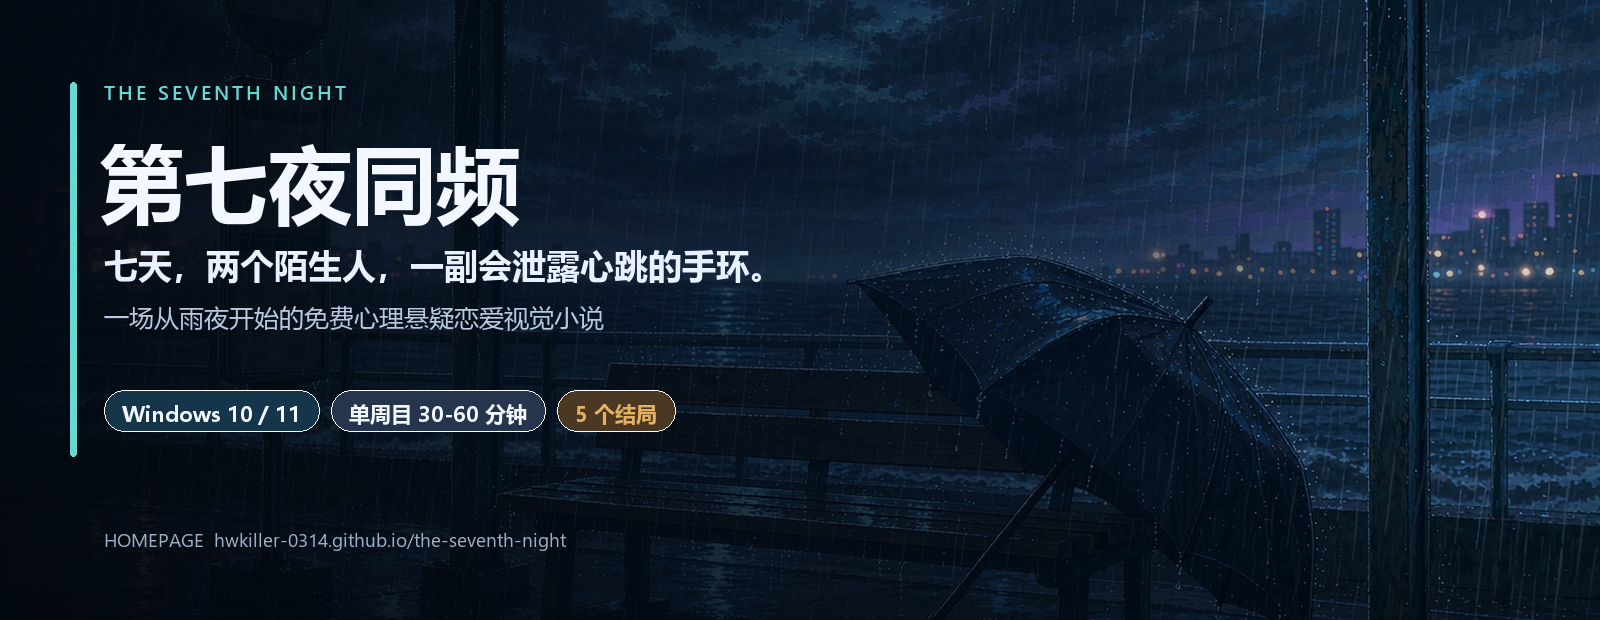
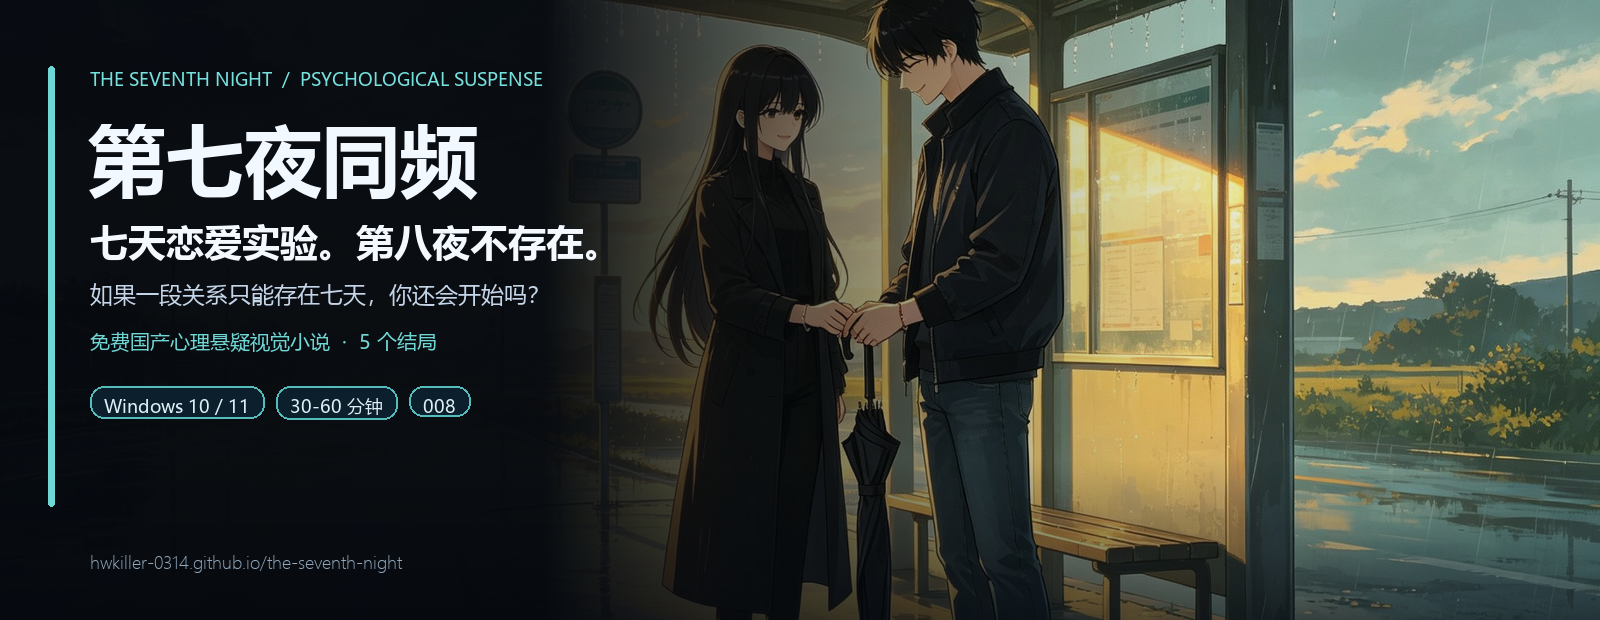
docs: sharpen player-facing hook and visuals

diff --git a/docs/index.html b/docs/index.html
@@ -3,15 +3,17 @@
 <head>
 <meta charset="utf-8">
 <meta name="viewport" content="width=device-width, initial-scale=1">
-<title>第七夜同频 | 七天亲密关系实验，一场从雨夜开始的悬疑恋爱</title>
-<meta name="description" content="《第七夜同频》是一款免费国产心理悬疑恋爱视觉小说。Windows 10 / 11，单周目约 30 至 60 分钟，五个可达结局。">
+<title>第七夜同频 | 七天恋爱实验，第八夜不存在</title>
+<meta name="description" content="她参加了一场七天的恋爱实验。规则说第八夜不存在。第七夜，同频灯亮了，被封死的 008 房间也重新出现。免费国产心理悬疑视觉小说，五个可达结局。">
 <link rel="canonical" href="https://hwkiller-0314.github.io/the-seventh-night/">
 <meta name="theme-color" content="#070b12">
 <link rel="icon" type="image/png" href="images/favicon.png">
 <meta property="og:type" content="website">
-<meta property="og:title" content="第七夜同频 | 七天亲密关系实验">
-<meta property="og:description" content="一场从雨夜开始的免费心理悬疑恋爱视觉小说。">
+<meta property="og:title" content="第七夜同频 | 七天恋爱实验，第八夜不存在">
+<meta property="og:description" content="一场从雨夜开始的免费心理悬疑恋爱视觉小说。五个结局，单周目约 30 至 60 分钟。">
 <meta property="og:image" content="https://hwkiller-0314.github.io/the-seventh-night/images/social-preview.png">
+<meta property="og:image:width" content="1280">
+<meta property="og:image:height" content="640">
 <meta property="og:url" content="https://hwkiller-0314.github.io/the-seventh-night/">
 <meta name="twitter:card" content="summary_large_image">
 <style>
@@ -21,12 +23,14 @@ html{scroll-behavior:smooth}
 body{margin:0;background:var(--bg);color:var(--text);font-family:"Microsoft YaHei","PingFang SC",sans-serif;line-height:1.7}
 a{color:inherit;text-decoration:none}
 a:focus-visible,.btn:focus-visible{outline:2px solid var(--teal);outline-offset:3px}
+img{display:block;max-width:100%}
 .wrap{width:min(1120px,calc(100% - 40px));margin:0 auto}
-.hero{min-height:78vh;display:flex;align-items:flex-end;background:linear-gradient(180deg,rgba(7,11,18,.12),rgba(7,11,18,.96) 90%),url("images/hero.jpg") center/cover no-repeat;border-bottom:1px solid var(--line)}
-.hero-inner{padding:90px 0 62px;max-width:800px}
-.eyebrow{color:var(--teal);font-size:13px;font-weight:800;letter-spacing:0;margin-bottom:14px}
+.hero{min-height:720px;display:flex;align-items:flex-end;background:linear-gradient(90deg,rgba(7,11,18,.98) 0%,rgba(7,11,18,.88) 35%,rgba(7,11,18,.28) 68%,rgba(7,11,18,.08) 100%),linear-gradient(180deg,rgba(7,11,18,.1),rgba(7,11,18,.96) 94%),url("images/hero.jpg") 58% center/cover no-repeat;border-bottom:1px solid var(--line)}
+.hero-inner{padding:96px 0 70px;max-width:790px}
+.eyebrow{color:var(--teal);font-size:13px;font-weight:800;margin-bottom:14px}
 .hero h1{font-size:76px;line-height:1.08;margin:0 0 18px;letter-spacing:0}
-.hero p{font-size:18px;color:#d3deee;max-width:680px;margin:0 0 28px}
+.hero .hook{font-size:30px;font-weight:800;color:#f3f8ff;margin:0 0 12px;line-height:1.35}
+.hero p{font-size:18px;color:#d3deee;max-width:700px;margin:0 0 28px;overflow-wrap:anywhere}
 .actions{display:flex;flex-wrap:wrap;gap:12px}
 .btn{display:inline-flex;align-items:center;justify-content:center;padding:12px 20px;border:1px solid var(--line);border-radius:6px;background:rgba(10,17,28,.82);font-weight:800;letter-spacing:0}
 .btn.primary{background:#2b736f;border-color:#4ea9a3}
@@ -34,14 +38,22 @@ a:focus-visible,.btn:focus-visible{outline:2px solid var(--teal);outline-offset:
 .btn:hover{border-color:var(--teal);color:#fff;transform:translateY(-1px)}
 section{padding:76px 0;border-bottom:1px solid var(--line)}
 h2{font-size:30px;letter-spacing:0;margin:0 0 22px}
+h3{letter-spacing:0}
 .lead{color:var(--muted);max-width:820px}
+.rules{padding:0;background:#0b121d}
+.rule-grid{display:grid;grid-template-columns:repeat(4,1fr);border-left:1px solid var(--line);border-right:1px solid var(--line)}
+.rule{padding:28px 26px;border-right:1px solid var(--line);position:relative;background:rgba(16,26,40,.55)}
+.rule:last-child{border-right:0;background:rgba(74,48,30,.5)}
+.rule b{display:block;color:var(--teal);font-size:12px;margin-bottom:8px}
+.rule span{display:block;font-size:18px;font-weight:800;line-height:1.5}
+.rule:last-child span{color:#f0c785}
 .features{display:grid;grid-template-columns:repeat(3,1fr);gap:16px;margin-top:28px}
 .feature{border-top:2px solid var(--teal);padding:18px 0 8px}
 .feature h3{margin:0 0 8px;font-size:17px}
 .feature p{margin:0;color:var(--muted);font-size:14px}
 .gallery{display:grid;grid-template-columns:repeat(2,1fr);gap:16px;margin-top:28px}
-.shot{position:relative;overflow:hidden;border:1px solid var(--line);border-radius:8px;background:#0b121d}
-.shot img{display:block;width:100%;height:100%;object-fit:cover;transition:transform .4s ease}
+.shot{position:relative;overflow:hidden;border:1px solid var(--line);border-radius:8px;background:#0b121d;margin:0}
+.shot img{width:100%;height:100%;object-fit:cover;transition:transform .4s ease}
 .shot:hover img{transform:scale(1.025)}
 .shot span{position:absolute;left:14px;bottom:12px;background:rgba(5,9,15,.82);padding:6px 10px;border-radius:4px;font-size:12px;color:#dce7f4}
 .story{background:#0b121d}
@@ -58,13 +70,19 @@ h2{font-size:30px;letter-spacing:0;margin:0 0 22px}
 .support{margin-top:30px;padding:24px;border:1px solid var(--line);border-radius:8px;background:var(--panel)}
 .support h3{margin:0 0 8px;font-size:20px}
 .support p{color:var(--muted);margin:0 0 18px}
+.notice{margin-top:18px;padding:14px 16px;border-left:2px solid var(--amber);background:rgba(228,179,99,.08);color:#c8d4e5;font-size:13px}
 footer{padding:42px 0 60px;color:var(--muted);font-size:13px}
 @media(max-width:820px){
-  .hero{min-height:680px;background-position:56% center}
+  .hero{min-height:690px;background:linear-gradient(180deg,rgba(7,11,18,.2),rgba(7,11,18,.97) 72%),url("images/hero.jpg") 64% center/cover no-repeat}
+  .hero-inner{padding:300px 0 54px}
   .hero h1{font-size:52px}
+  .hero .hook{font-size:23px}
   .quote{font-size:28px}
   .features,.gallery,.download{grid-template-columns:1fr}
-  .wrap{width:min(100% - 28px,1120px)}
+  .rule-grid{grid-template-columns:repeat(2,1fr);border-left:0;border-right:0}
+  .rule:nth-child(2){border-right:0}
+  .rule{border-bottom:1px solid var(--line)}
+  .wrap{width:calc(100% - 28px)}
   section{padding:58px 0}
   .actions{display:grid}
   .btn{width:100%}
@@ -82,7 +100,8 @@ footer{padding:42px 0 60px;color:var(--muted);font-size:13px}
   "gamePlatform": "Microsoft Windows",
   "author": {"@type": "Person", "name": "hwkiller-0314"},
   "url": "https://hwkiller-0314.github.io/the-seventh-night/",
-  "downloadUrl": "https://github.com/hwkiller-0314/the-seventh-night/releases/latest"
+  "downloadUrl": "https://github.com/hwkiller-0314/the-seventh-night/releases/latest",
+  "description": "七天恋爱实验，第八夜不存在。免费国产心理悬疑视觉小说，五个可达结局。"
 }
 </script>
 </head>
@@ -90,60 +109,74 @@ footer{padding:42px 0 60px;color:var(--muted);font-size:13px}
 <main>
   <section class="hero">
     <div class="wrap hero-inner">
-      <div class="eyebrow">FREE WINDOWS VISUAL NOVEL · 5 ENDINGS</div>
+      <div class="eyebrow">免费国产心理悬疑视觉小说 · 5 个结局</div>
       <h1>第七夜同频</h1>
-      <p>一场只有七天的亲密关系实验，一段从雨夜开始的悬疑恋爱。你能在第七夜之前，真正听懂另一个人的心跳吗？</p>
+      <p class="hook">七天恋爱实验。第八夜不存在。</p>
+      <p>如果一段关系只能存在七天，你还会开始吗？你和陌生人 S-07 共同生活七天，完成关于信任、边界和心跳同步的任务。第七夜，同频灯亮了；也是那一夜，她姐姐失踪的 008 房间重新出现。</p>
       <div class="actions">
         <a class="btn primary" href="https://github.com/hwkiller-0314/the-seventh-night/releases/download/v1.3.0/The-Seventh-Night-v1.3.0-Windows-Setup.exe">下载 Windows 版</a>
+        <a class="btn" href="#shots">先看游戏画面</a>
         <a class="btn" href="https://github.com/hwkiller-0314/the-seventh-night">查看 GitHub</a>
-        <a class="btn star" href="https://github.com/hwkiller-0314/the-seventh-night/stargazers">点个 Star</a>
+      </div>
+    </div>
+  </section>
+
+  <section class="rules" aria-label="实验规则">
+    <div class="wrap">
+      <div class="rule-grid">
+        <div class="rule"><b>规则 01</b><span>不交换真名</span></div>
+        <div class="rule"><b>规则 02</b><span>不拍照</span></div>
+        <div class="rule"><b>规则 03</b><span>每晚完成一个指定任务</span></div>
+        <div class="rule"><b>规则 04</b><span>第八夜不存在</span></div>
       </div>
     </div>
   </section>
 
   <section>
     <div class="wrap">
-      <h2>故事</h2>
-      <p class="lead">你在一场“亲密关系重建计划”中，与陌生人 S-07 共同生活七天。你们戴着记录心跳的手环，完成关于距离、信任和边界的任务。随着心率曲线逐渐靠近，你发现她进入实验的目的并不简单。</p>
+      <h2>这不是一场普通恋爱</h2>
+      <p class="lead">她本来应该是主试，却成了你的同居对象。你们越靠近，心率曲线越同步；她越靠近真相，那个被封死的房间就越无法被忽视。每一次“要不要再近一点”，都同时关于亲密、欺骗和边界。</p>
       <div class="features">
         <div class="feature"><h3>选择真的会改变关系</h3><p>信任、同频、真相、清醒四个隐藏数值共同影响结局。</p></div>
-        <div class="feature"><h3>同频灯与心率</h3><p>两个人的心跳越接近，蓝色灯越亮。</p></div>
-        <div class="feature"><h3>五个可达结局</h3><p>同频、雨停、各自成长、失温、008。</p></div>
-        <div class="feature"><h3>边界与同意</h3><p>亲密不是奖励，而是被认真确认的选择。</p></div>
-        <div class="feature"><h3>心理悬疑</h3><p>三年前那把黑伞，把你们引向同一个雨夜。</p></div>
+        <div class="feature"><h3>边界不是装饰</h3><p>能不能牵手、能不能靠近、要不要先问，都是必须认真回答的选项。</p></div>
+        <div class="feature"><h3>从第一夜开始埋线</h3><p>黑伞、旧手环、末班车和 008 房间，把一段关系引向同一个雨夜。</p></div>
+        <div class="feature"><h3>五个可达结局</h3><p>最坏的结果不是分手，而是你们都没有真正听懂对方。</p></div>
+        <div class="feature"><h3>短篇完整故事</h3><p>单周目约 30 至 60 分钟，一周目可以完整通关。</p></div>
         <div class="feature"><h3>完整视听演出</h3><p>立绘差分、剧情 CG、雨夜视频、BGM 与音效。</p></div>
       </div>
     </div>
   </section>
 
-  <section>
+  <section id="shots">
     <div class="wrap">
-      <h2>截图</h2>
+      <h2>游戏画面</h2>
+      <figure class="shot"><img src="images/game-preview.png" alt="游戏关系选择、剧情 CG 与结局画面"><span>实际游戏画面</span></figure>
       <div class="gallery">
-        <figure class="shot"><img src="images/game-choice.jpg" alt="游戏选择界面"><span>关系选择</span></figure>
         <figure class="shot"><img src="images/cg-first-kiss.jpg" alt="雨窗将吻"><span>雨窗将吻</span></figure>
-        <figure class="shot"><img src="images/cg-door-cry.jpg" alt="答案之后"><span>答案之后</span></figure>
+        <figure class="shot"><img src="images/cg-door-cry.jpg" alt="008 房间与答案之后"><span>答案之后</span></figure>
         <figure class="shot"><img src="images/cg-umbrella-return.jpg" alt="雨停了就回家"><span>雨停了就回家</span></figure>
+        <figure class="shot"><img src="images/game-choice.jpg" alt="关系选择界面"><span>关系选择</span></figure>
       </div>
     </div>
   </section>
 
   <section class="story">
     <div class="wrap">
-      <p class="quote">“同频灯亮起之前，不要相信雨会停。”</p>
-      <p class="quote-small">国产心理悬疑恋爱视觉小说 · 免费发布 · Windows 10 / 11 · 单周目 30 至 60 分钟</p>
+      <p class="quote">“他们说第八夜不存在。原来他们不是指时间，而是指房间。”</p>
+      <p class="quote-small">免费发布 · Windows 10 / 11 · 单周目 30 至 60 分钟 · 5 个结局</p>
     </div>
   </section>
 
   <section>
     <div class="wrap download">
       <div>
-        <h2>下载与安装</h2>
-        <p class="lead">下载最新版安装包后直接运行。首次运行如遇 SmartScreen 提示，请选择“更多信息”后点击“仍要运行”。</p>
+        <h2>下载与开始</h2>
+        <p class="lead">下载 Windows 安装包后直接运行。首次启动按提示创建本地账号，游戏进度保存在当前电脑，不需要外部服务器。</p>
         <div class="actions">
-          <a class="btn primary" href="https://github.com/hwkiller-0314/the-seventh-night/releases/download/v1.3.0/The-Seventh-Night-v1.3.0-Windows-Setup.exe">第七夜同频 v1.3.0</a>
+          <a class="btn primary" href="https://github.com/hwkiller-0314/the-seventh-night/releases/download/v1.3.0/The-Seventh-Night-v1.3.0-Windows-Setup.exe">下载第七夜同频 v1.3.0</a>
           <a class="btn" href="https://github.com/hwkiller-0314/the-seventh-night/releases">全部版本</a>
         </div>
+        <div class="notice">内容提示：本作涉及失踪、死亡、心理创伤、治疗以及亲密关系边界等议题。无血腥画面或裸露内容，所有角色均为成年人。</div>
       </div>
       <div class="download-box">
         <ul class="meta">
@@ -151,7 +184,8 @@ footer{padding:42px 0 60px;color:var(--muted);font-size:13px}
           <li>内存：建议 4 GB 以上</li>
           <li>空间：约 1 GB</li>
           <li>类型：心理悬疑 / 校园恋爱 / 视觉小说</li>
-          <li>价格：免费发布</li>
+          <li>价格：免费发布，无内购</li>
+          <li>存档：本地账号，保存在当前电脑</li>
         </ul>
       </div>
     </div>
@@ -162,10 +196,11 @@ footer{padding:42px 0 60px;color:var(--muted);font-size:13px}
       <h2>玩家常问</h2>
       <details><summary>这是恐怖游戏吗？</summary><p>不是。作品更偏向心理悬疑和关系描写，主要通过信息差、回忆与选择制造压力。</p></details>
       <details><summary>一周目需要多久？</summary><p>约 30 至 60 分钟。游戏包含五个可达结局，可以在关键选择处继续探索。</p></details>
+      <details><summary>需要联网吗？</summary><p>不需要外部服务器。首次启动会创建本地账号，进度保存在当前电脑。</p></details>
       <details><summary>Windows 提示未知发布者怎么办？</summary><p>这是个人开发者未购买代码签名证书时常见的提示。选择“更多信息”，再点击“仍要运行”即可。</p></details>
       <div class="support">
         <h3>如果这个故事让你多停留了一会儿</h3>
-        <p>Star 能让仓库更容易被正在寻找视觉小说的人看到，也能给个人开发带来最直接的反馈。</p>
+        <p>把游戏分享给喜欢视觉小说、心理悬疑或互动叙事的朋友，比单纯点一个赞更有用。你也可以在仓库留下真实反馈，或点 Star 帮助更多同类玩家发现它。</p>
         <div class="actions">
           <a class="btn star" href="https://github.com/hwkiller-0314/the-seventh-night/stargazers">点个 Star 支持</a>
           <a class="btn" href="https://github.com/hwkiller-0314/the-seventh-night/issues/new/choose">留下反馈</a>

diff --git a/README.md b/README.md
@@ -1,19 +1,21 @@
 <div align="center">
 
-<img src="docs/images/readme-banner.png" alt="第七夜同频：七天亲密关系实验，一场从雨夜开始的悬疑恋爱" width="100%">
+<img src="docs/images/readme-banner.png" alt="第七夜同频：七天恋爱实验，第八夜不存在" width="100%">
 
 # 第七夜同频
 
-**七天，两个陌生人，一副会泄露心跳的手环。**
+**七天恋爱实验。第八夜不存在。**
 
-一场从雨夜开始的免费心理悬疑恋爱视觉小说。
+如果一段关系只能存在七天，你还会开始吗？
+
+一场从雨夜开始的免费心理悬疑恋爱视觉小说。<br>
 单周目约 30 至 60 分钟，包含五个可达结局。
 
 <a href="https://github.com/hwkiller-0314/the-seventh-night/releases/latest">
   <img src="https://img.shields.io/badge/下载最新版-Windows-2b736f?style=for-the-badge&logo=windows&logoColor=white" alt="下载 Windows 版">
 </a>
 <a href="https://hwkiller-0314.github.io/the-seventh-night/">
-  <img src="https://img.shields.io/badge/打开官网-在线预览-244b6b?style=for-the-badge&logo=githubpages&logoColor=white" alt="打开官方网站">
+  <img src="https://img.shields.io/badge/打开官网-查看游戏-244b6b?style=for-the-badge&logo=githubpages&logoColor=white" alt="打开官方网站">
 </a>
 <a href="https://github.com/hwkiller-0314/the-seventh-night/stargazers">
   <img src="https://img.shields.io/badge/喜欢这个故事-点个_Star-8a682f?style=for-the-badge&logo=github&logoColor=white" alt="点个 Star">
@@ -26,14 +28,25 @@
 
 </div>
 
-> 你在一场“亲密关系重建计划”中，与陌生人 S-07 共同生活七天。两个人的心率曲线越来越接近，但她参加实验的目的并不简单，而三年前那把黑伞，似乎也把你们引向了同一个雨夜。
+> 你在一场“亲密关系重建计划”中，与陌生人 S-07 共同生活七天。两个人戴着记录心跳的手环，完成关于距离、信任和边界的任务。第七夜，同频灯亮了。
+>
+> 也是那一夜，她失踪姐姐的档案里，出现了一个本不该存在的房间：008。
+
+## 实验规则
+
+| 规则 | 内容 |
+|---|---|
+| 01 | 不交换真名 |
+| 02 | 不拍照 |
+| 03 | 每晚完成一个指定任务 |
+| 04 | **第八夜不存在** |
 
 ## 为什么值得花 40 分钟
 
-- **选择不是装饰。** 信任、同频、真相、清醒四个隐藏数值会随着每次回应变化，并共同把你带向不同结局。
-- **关系推进有可视化反馈。** 手环、心率和同频灯让“走近一个人”这件事不再只是一行好感度数字。
-- **完整的小体量作品。** 剧本、选择、立绘差分、剧情 CG、雨夜演出、BGM、音效与五个结局都已经打包完成。
-- **不设付费门槛。** Windows 安装包免费下载，不需要购买激活码。
+- **这不是普通的“刷好感”恋爱。** 信任、同频、真相、清醒四个隐藏数值会一起改变关系走向。
+- **选项里有真正的边界。** 能不能牵手、能不能靠近、要不要先问，都会改变你理解这个人的方式。
+- **悬疑不是最后一秒硬反转。** 黑伞、旧手环、末班车和 008 房间，从第一夜就开始埋线。
+- **五个结局，不靠重复劳动。** 单周目约 30 至 60 分钟，完整故事，免费发布。
 
 ## 先看游戏画面
 
@@ -70,14 +83,15 @@
 | 结局 | 5 个 |
 | 时长 | 单周目约 30 至 60 分钟 |
 | 平台 | Windows 10 / Windows 11 64 位 |
-| 价格 | 免费发布 |
+| 价格 | 免费发布，无内购 |
 | 内容说明 | 所有角色均为成年人，不包含裸露画面 |
 
 ## 下载与开始
 
 1. 前往 [Releases](https://github.com/hwkiller-0314/the-seventh-night/releases/latest)，下载 `The-Seventh-Night-v1.3.0-Windows-Setup.exe`。
 2. 运行安装程序并打开游戏。
-3. 首次运行如遇 Windows SmartScreen，选择“更多信息”，再点击“仍要运行”。
+3. 首次启动按提示创建本地账号。游戏进度保存在当前电脑。
+4. 首次运行如遇 Windows SmartScreen，选择“更多信息”，再点击“仍要运行”。
 
 当前版本：`v1.3.0`
 
@@ -118,11 +132,22 @@
 </details>
 
 <details>
+<summary><strong>需要联网吗？进度保存在哪里？</strong></summary>
+
+不需要外部服务器。首次启动会创建本地账号，游戏进度保存在当前电脑。
+
+</details>
+
+<details>
 <summary><strong>为什么 Windows 会提示未知发布者？</strong></summary>
 
 这是个人开发者未购买代码签名证书时常见的提示。安装包可以直接运行，校验文件同时放在 [Releases](https://github.com/hwkiller-0314/the-seventh-night/releases) 中。
 
 </details>
+
+## 内容提示
+
+本作涉及失踪、死亡、心理创伤、治疗以及亲密关系边界等议题。作品不包含血腥画面或裸露内容，所有角色均为成年人。
 
 ## 反馈与交流
 
@@ -134,8 +159,8 @@
 
 这是一个由个人完成并公开发布的免费作品。你可以通过以下方式帮助它被更多人看到：
 
-- 点一个 [Star](https://github.com/hwkiller-0314/the-seventh-night/stargazers)，让仓库更容易出现在 GitHub 搜索与推荐中。
-- 把游戏分享给喜欢视觉小说或心理悬疑故事的朋友。
+- 把游戏分享给喜欢视觉小说、心理悬疑或互动叙事的朋友。
+- 点一个 [Star](https://github.com/hwkiller-0314/the-seventh-night/stargazers)，让仓库更容易被正在寻找同类作品的人发现。
 - 在 Issues 中留下真实反馈，帮助后续版本继续打磨。
 
 ## 更新日志

diff --git a/CHANGELOG.md b/CHANGELOG.md
@@ -1,5 +1,13 @@
 # 更新日志
 
+## 仓库传播更新 - 2026-11-06
+
+- 统一主传播钩子为“七天恋爱实验。第八夜不存在。”
+- 重写 README 首屏与官网首屏，突出实验规则、008 房间与五个结局。
+- 更新仓库横幅、社交预览图和官网主视觉。
+- 补充本地账号、存档位置与内容提示说明。
+- 优化下载入口、常见问题与分享引导。
+
 ## 仓库展示更新 - 2026-10-15
 
 - 重写 README 首屏，补充下载入口、游戏画面、常见问题与支持方式。
@@ -27,4 +35,3 @@
 
 - 完成序章、共通线、沈听澜线、真相线与五个结局。
 - 实现同频灯、心率提示、雨景、立绘和基础存档。
-
